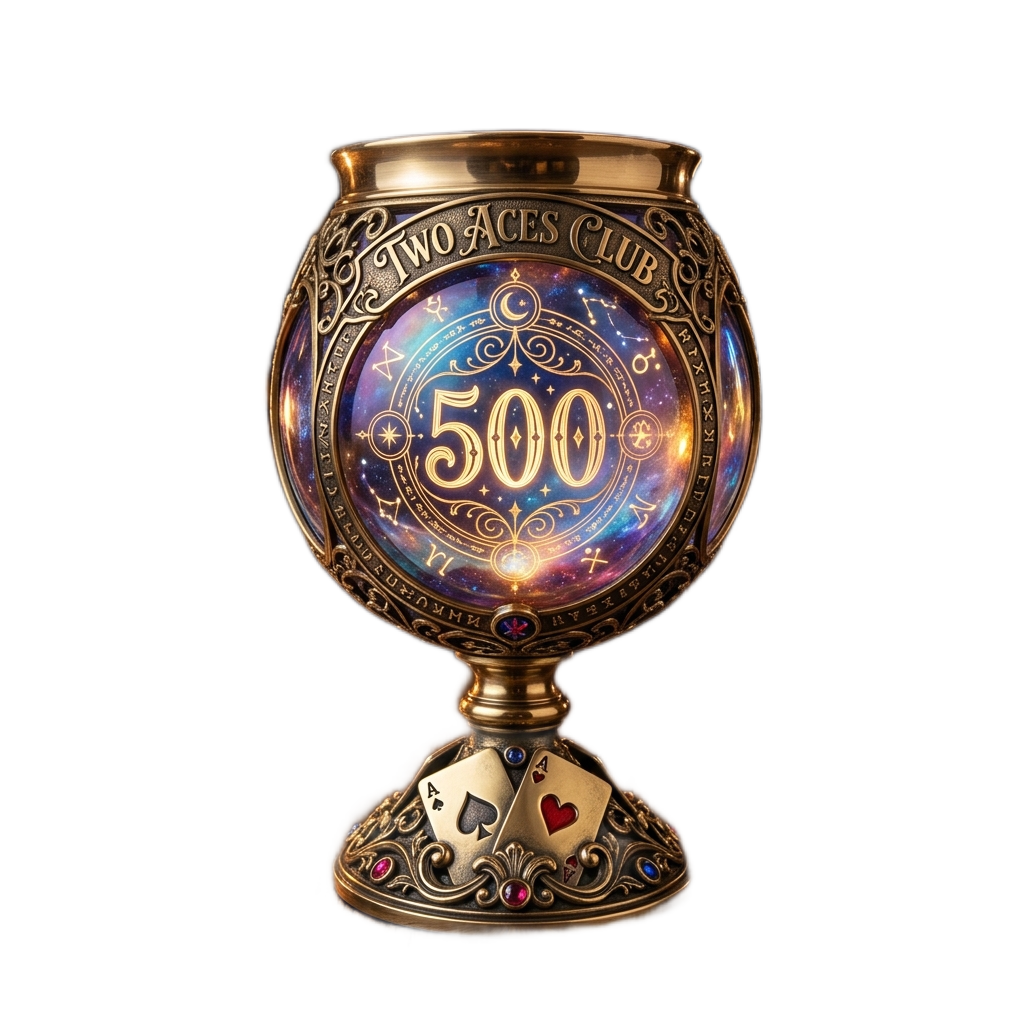
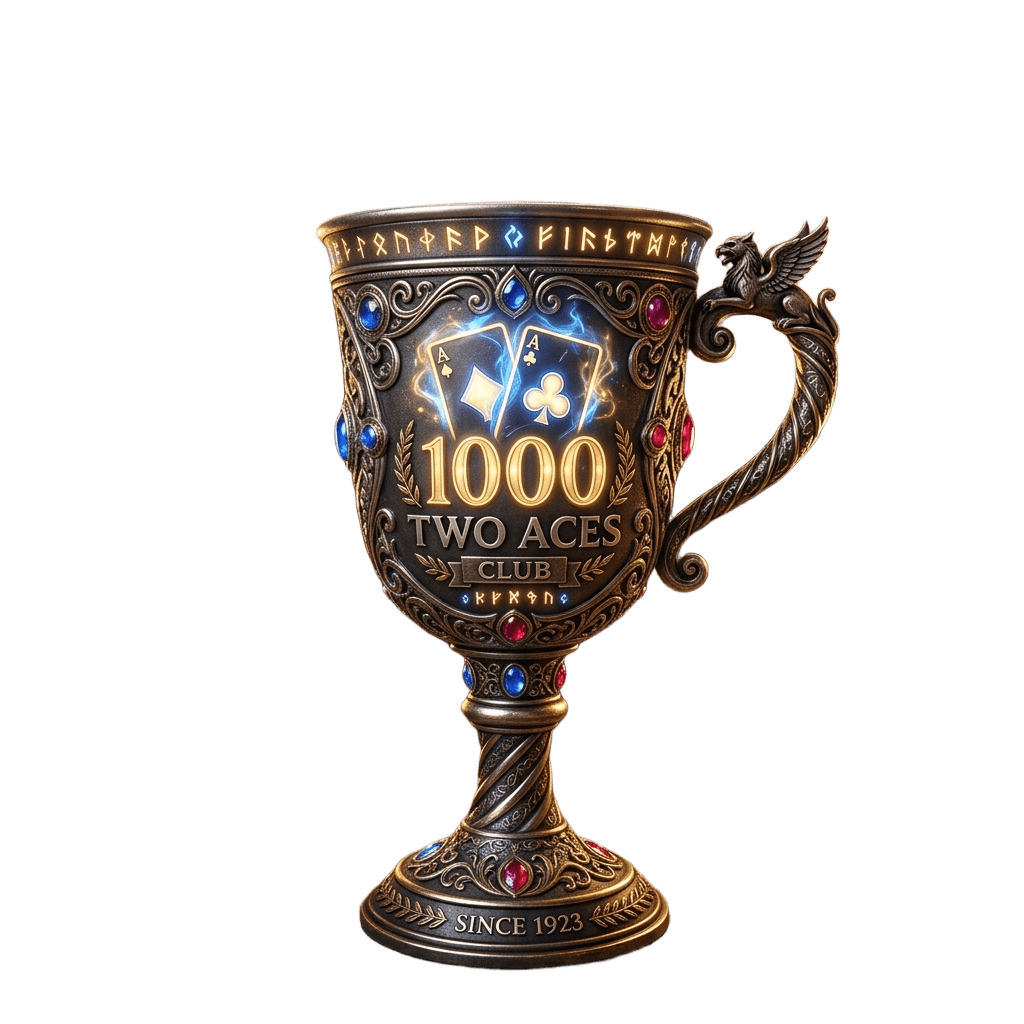
chat: fully disable global swipe in chat and update trophy
Made-with: Cursor

Changed region(s): [[0.25, 0.125, 0.8438, 0.9688]]

diff --git a/app.js b/app.js
@@ -2766,7 +2766,12 @@ function setViewAnimated(viewName, direction) {
   }
   function onTouchEnd(e) {
     if (e.changedTouches.length !== 1) return;
-    swipeDisabled = false;
+    // Если для этого жеста свайп был отключён (например, в чате),
+    // то полностью игнорируем окончание касания и не навигируем между экранами.
+    if (swipeDisabled) {
+      swipeDisabled = false;
+      return;
+    }
     var current = getCurrentView();
     if (MAIN_VIEW_ORDER.indexOf(current) < 0) return;
     var endX = e.changedTouches[0].clientX;
@@ -12025,6 +12030,14 @@ function initChat() {
           e.stopPropagation();
           if (btn.dataset.action) runAction(btn.dataset.action, btn);
         });
+        // На мобильных иногда click по пункту меню не срабатывает,
+        // поэтому дублируем обработчик на touchend.
+        btn.addEventListener("touchend", function (e) {
+          if (e.target !== btn && !btn.contains(e.target)) return;
+          e.preventDefault();
+          e.stopPropagation();
+          if (btn.dataset.action) runAction(btn.dataset.action, btn);
+        }, { passive: false });
       }
       ctxMenu.querySelectorAll(".chat-ctx-menu__item").forEach(bindMenuButton);
       ctxMenu.querySelectorAll(".chat-ctx-menu__reaction-emoji").forEach(bindMenuButton);

diff --git a/styles.css b/styles.css
@@ -3061,6 +3061,7 @@ body.chat-keyboard-open .app {
   min-width: 0;
   width: 100%;
   padding-left: 0;
+  position: relative;
 }
 .chat-templates-hint {
   margin-top: 2px;
@@ -3474,7 +3475,7 @@ img.chat-contact__avatar {
   overflow-y: auto;
   vertical-align: top;
   line-height: 1.4;
-  padding: 10px 14px;
+  padding: 10px 40px 10px 14px;
   border-radius: 22px;
 }
 .chat-input-wrap:not(.chat-input-wrap--single) .chat-input--textarea {
@@ -3513,12 +3514,14 @@ img.chat-contact__avatar {
 }
 
 .chat-emoji-btn {
-  flex-shrink: 0;
-  width: 36px;
-  height: 36px;
+  position: absolute;
+  right: 54px; /* перед микрофоном (36px) + небольшой зазор */
+  bottom: 8px;
+  width: 28px;
+  height: 28px;
   padding: 0;
   border: none;
-  border-radius: 8px;
+  border-radius: 50%;
   background: transparent;
   font-size: 20px;
   line-height: 1;
